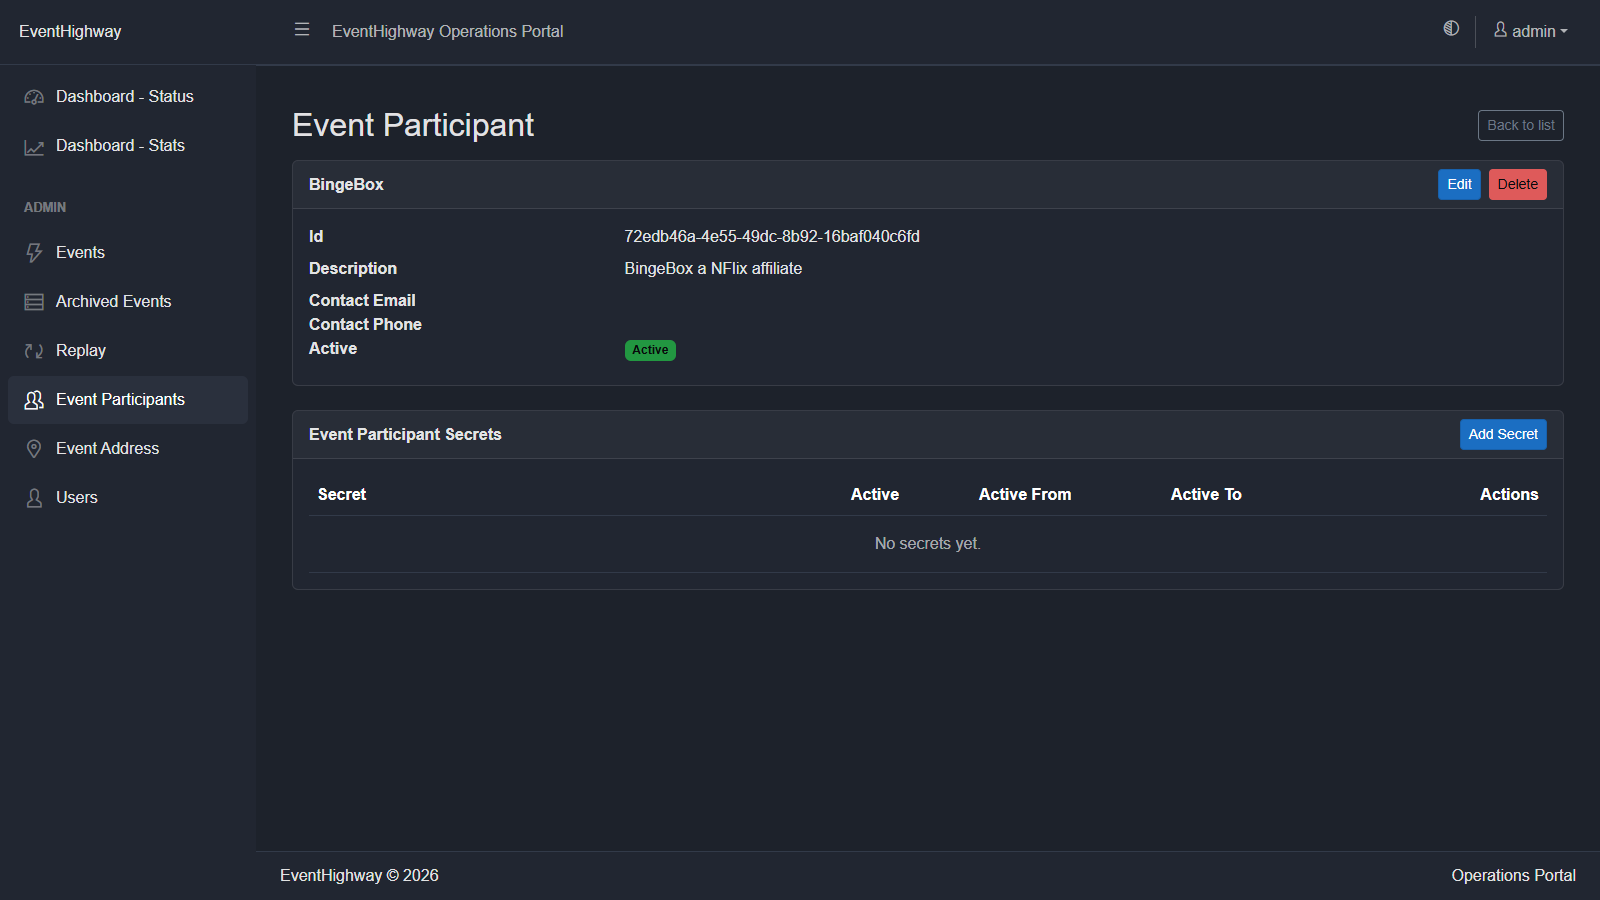
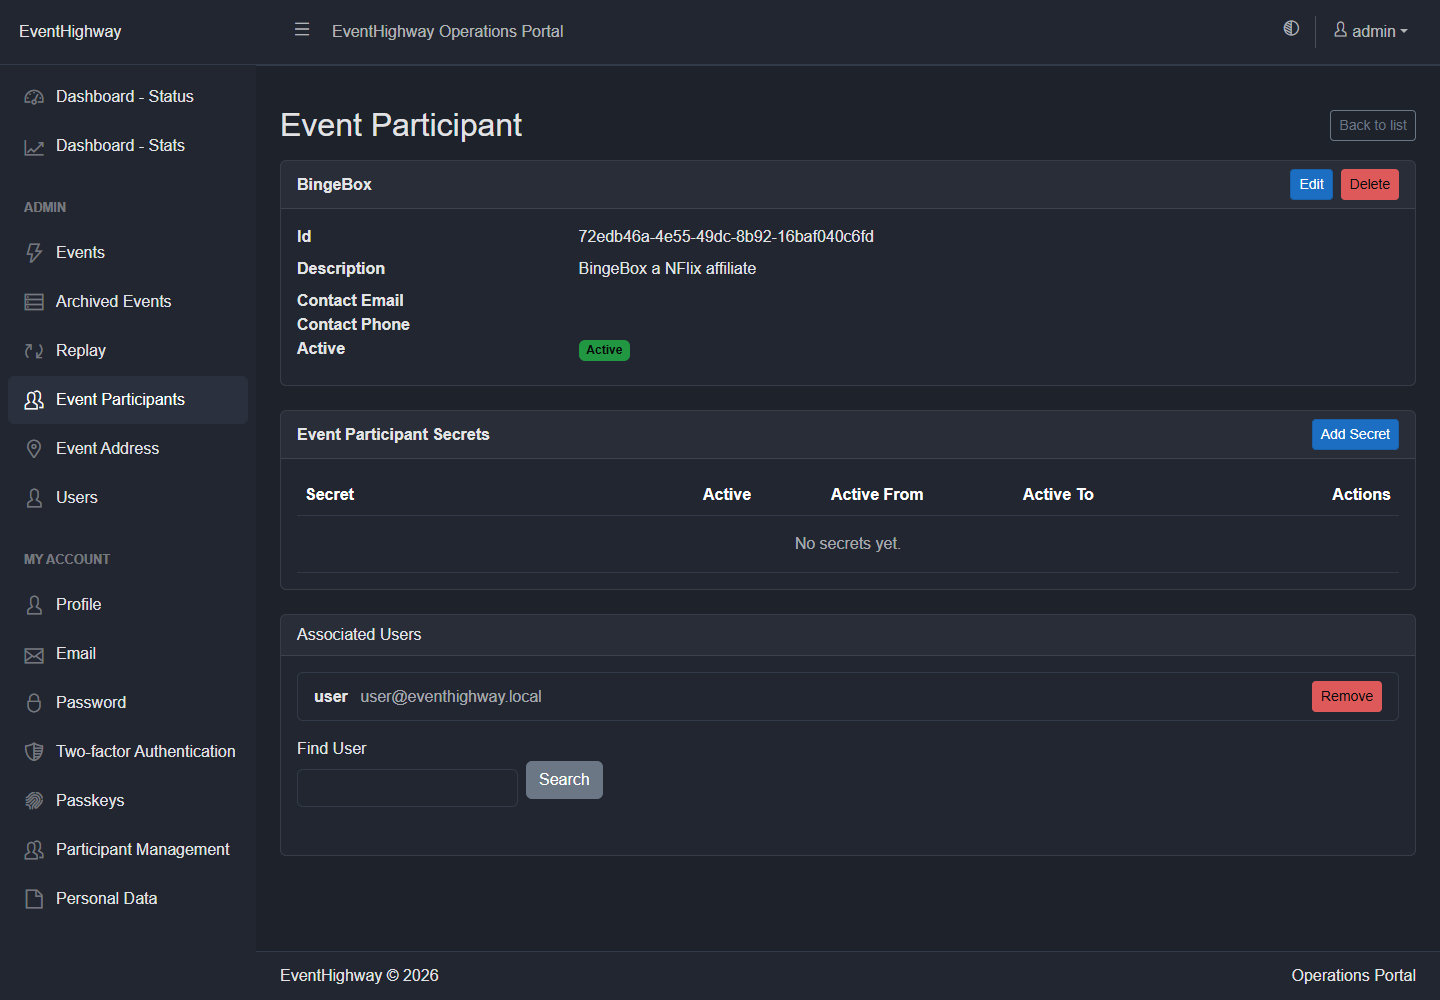
CODE RUB: Add and refresh portal screenshots for participant management

diff --git a/Documentation/EventHighway.Portal.Web/EventHighway.Portal.Web.Design.md b/Documentation/EventHighway.Portal.Web/EventHighway.Portal.Web.Design.md
@@ -671,9 +671,17 @@ Associated users reach their participants through **My Account → Participant M
   table with a **View** button. No *Add Participant* button. With no associations it shows:
   *"You do not currently have any Event Participant Associations. Contact Support if you think this
   is incorrect."*
+
+  ![My Participants list](Images/Portal-My-Participants.png)
+
 - **Detail** (`/my/participants/{id}`) — the participant profile **read-only** (no Edit, no Delete,
   no edit modal) plus the full **secrets** card: add, reveal/hide, inline-edit and delete secrets,
   exactly as [§7.2](#72-participant-details--secrets).
+
+  ![My Participant detail](Images/Portal-My-Participant-Detail.png)
+
+Note the sidebar in both screenshots: a `Users`-role account sees the **My Account** group but no
+**Admin** group.
 
 ### 13.3 The authorization model — association is the only key
 
